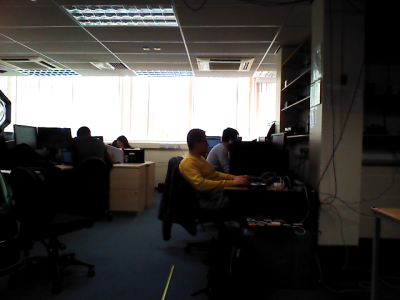
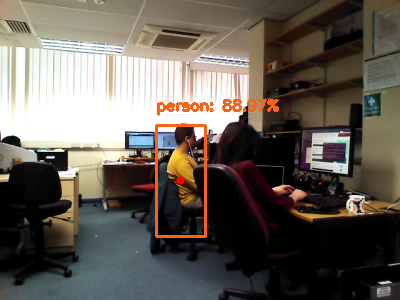
Commit pose, baby.

diff --git a/rgb_detection/cv_conversion.py b/rgb_detection/cv_conversion.py
@@ -114,11 +114,12 @@ def main(args):
     try:
         # Subscriptions (via Subscriber package)
         rgb_sub   = message_filters.Subscriber("/xtion/rgb/image_rect_color", Image)
-        depth_sub = message_filters.Subscriber("/xtion/depth_registered/image_raw", Image)
+        depth_sub = message_filters.Subscriber("/xtion/depth_registered/hw_registered/image_rect_raw", Image)
+        # depth_sub = message_filters.Subscriber("/xtion/depth_registered/hw_registered/image_rect_raw", Image)
         # point_sub = message_filters.Subscriber("/xtion/depth_registered/points", PointCloud2)
 
         # Synchronize subscriptions
-        ats = message_filters.ApproximateTimeSynchronizer([rgb_sub, depth_sub], queue_size=2, slop=0.1)
+        ats = message_filters.ApproximateTimeSynchronizer([rgb_sub, depth_sub], queue_size=2, slop=0.3)
         ats.registerCallback(processSubscriptions)
 
         # Spin it baby !

diff --git a/depth_mapping/depth_mapping.py b/depth_mapping/depth_mapping.py
@@ -84,12 +84,14 @@ def getDepths(req):
             i = detection.centre_x
             j = detection.centre_y
 
+            print("Centre point: ", cv_depth_image[j,i])
+
             # Fetch window around the centre of the
             # bounding box and get rid of NaN values
             roi = cv_depth_image[j-d:j+d+1, i-d:i+d+1]
             roi = roi[~np.isnan(roi)]
 
-            print("ROI: ", roi)
+            # print("ROI: ", roi)
 
             # Copy over detections items
             # for future 1 to 1 mapping
